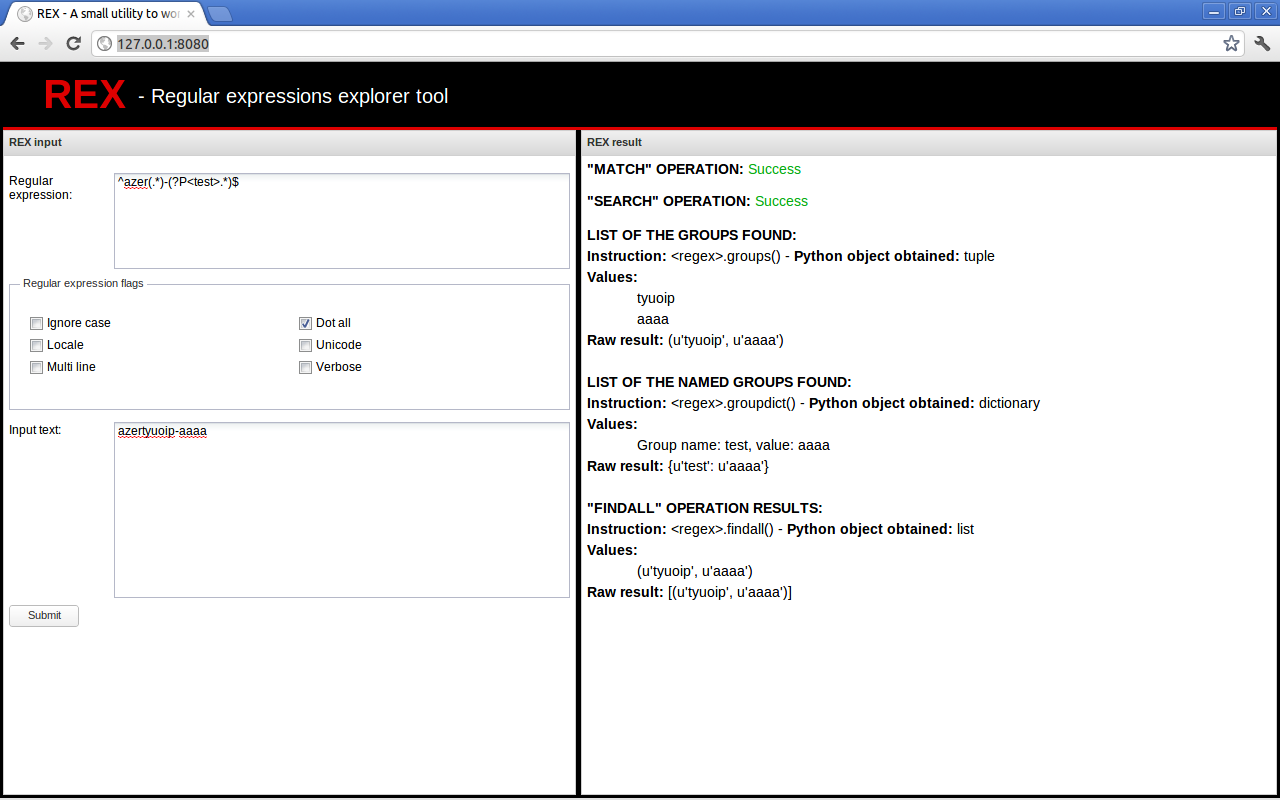
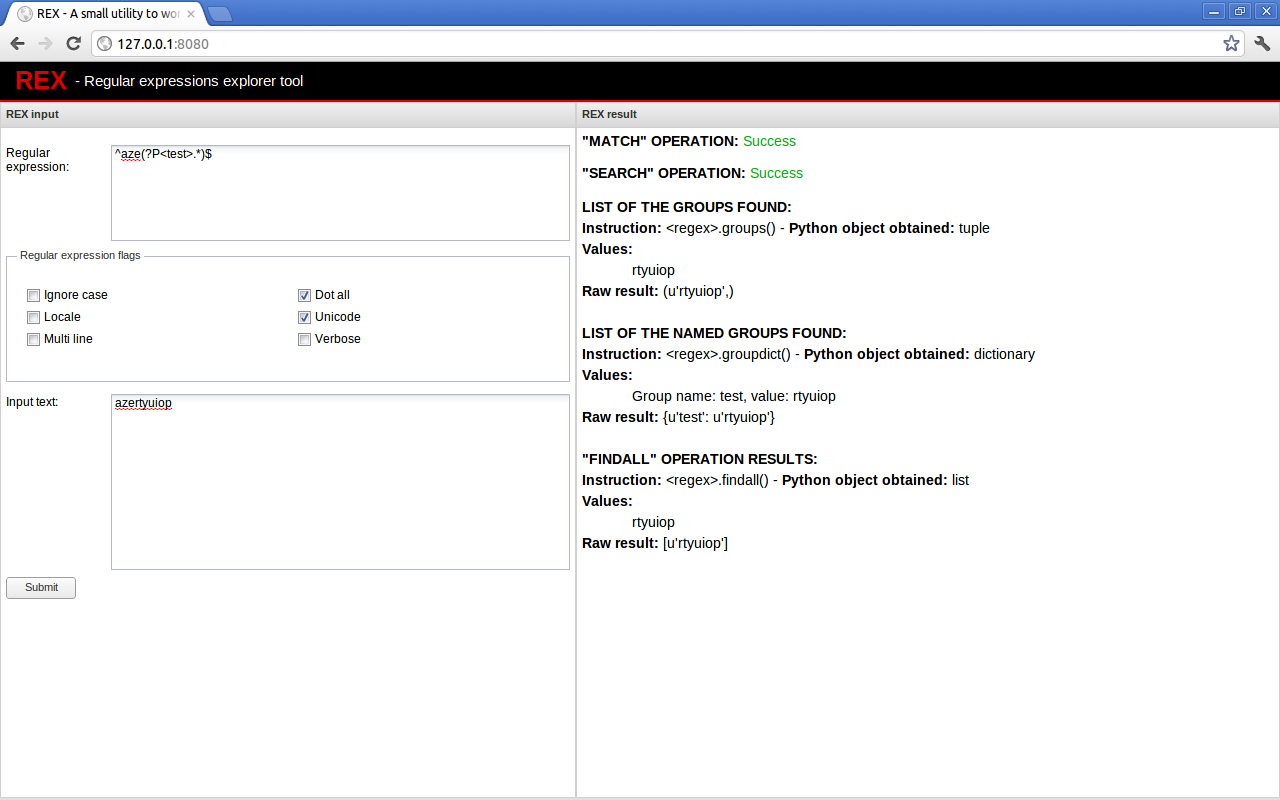
Update UI

Changed region(s): [[0.0, 0.0938, 1.0, 1.0], [0.0, 0.7188, 0.0625, 0.8125], [0.0938, 0.0312, 0.1875, 0.0625]]

diff --git a/www/rex.js b/www/rex.js
@@ -12,8 +12,6 @@ Ext.application({
     launch: function() {
         Ext.create('Ext.container.Viewport', {
             layout: 'border',
-            style: 'background-color: #000000',
-            padding: 3,
             items: [
             	{
 			        xtype: 'rexheader',

diff --git a/www/app/view/Input.js b/www/app/view/Input.js
@@ -6,7 +6,6 @@ Ext.define('REX.view.Input' ,{
     title: 'REX input',
     
     width: '45%',
-    split: true,
     bodyStyle: 'padding-top: 15; padding-left: 5; padding-right: 5; padding-bottom: 5',
     
     items: [

diff --git a/www/app/view/Header.js b/www/app/view/Header.js
@@ -3,5 +3,5 @@ Ext.define('REX.view.Header' ,{
     alias: 'widget.rexheader',
     
     region: 'north',
-	height: 65,
+	height: 40,
 });

diff --git a/rex.py b/rex.py
@@ -56,16 +56,10 @@ class rex():
         '''
             Return HTML content of the page header
         '''
-        html = '''<table id="header-table" style="width: 100%; height: 60px; border-bottom: solid 5px #DD0000; background-color: #000000;">
+        html = '''<table id="header-table" style="width: 100%; height: 40px; border-bottom: solid 2px #DD0000; background-color: #000000;">
                       <tr>
-                          <td rowspan=3 valign=center style="padding-left: 40px; width: 135px; font-size: 40px; font-weight: bold; color: #DD0000">REX</td>
-                          <td style="height: 20px"></td>
-                      </tr>
-                      <tr>
-                          <td style="font-size: 20px; color: #FFFFFF;"> - Regular expressions explorer tool</td>
-                      </tr>
-                      <tr>
-                          <td style="height: 20px"></td>
+                          <td style="padding-left: 15px; width: 75px; font-size: 25px; font-weight: bold; color: #DD0000">REX</td>
+                          <td style="font-size: 15px; color: #FFFFFF;"> - Regular expressions explorer tool</td>
                       </tr>
                   </table>'''
         return '{"success": true, "html": %s}' %(json.dumps(html),)
